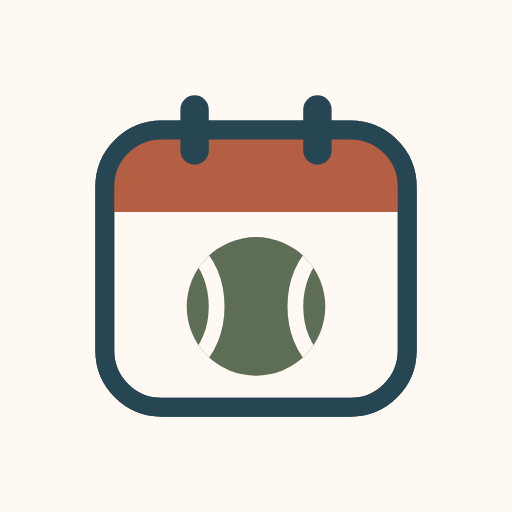
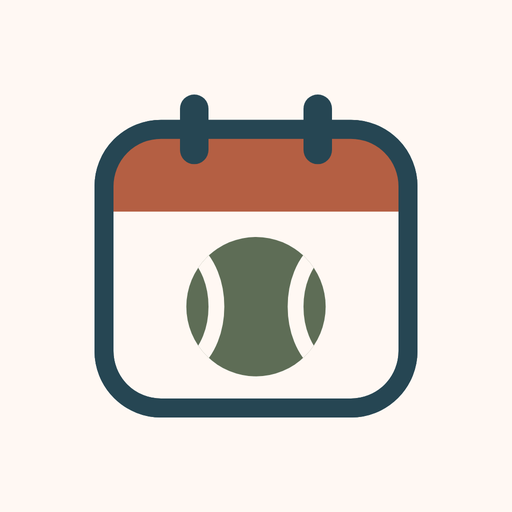
Add files via upload

diff --git a/index.html b/index.html
@@ -9,7 +9,7 @@
 <meta name="apple-mobile-web-app-title" content="OnCourt">
 <meta name="apple-mobile-web-app-status-bar-style" content="default">
 <link rel="manifest" href="manifest.webmanifest">
-<link rel="apple-touch-icon" href="apple-touch-icon.png">
+<link rel="apple-touch-icon" href="apple-touch-icon.png?v=2">
 <link rel="icon" type="image/png" sizes="192x192" href="icon-192.png">
 <title>Agenda OnCourt</title>
 <script src="config.js"></script>
@@ -20,6 +20,7 @@
 <link rel="stylesheet" href="https://fonts.googleapis.com/css2?family=Playfair+Display:wght@600;700;800&family=Poppins:wght@400;500;600;700&family=Roboto+Mono:wght@400;500&display=swap">
 <style>
 [hidden]{display:none!important}
+.arc{display:none!important}
 /* Layout: identidade OnCourt, versão enxuta. Menu lateral (fixo no computador, deslizante no celular) com Dashboard, Calendário, Arquivos e Métricas. Tela de PIN antes de abrir. */
 :root{
   --paper:#FFF8F3; --surface:#FFFDFB; --sunken:#F4E6DA; --ink:#211E1C; --muted:#6F625A; --line:#E3D3C5;
